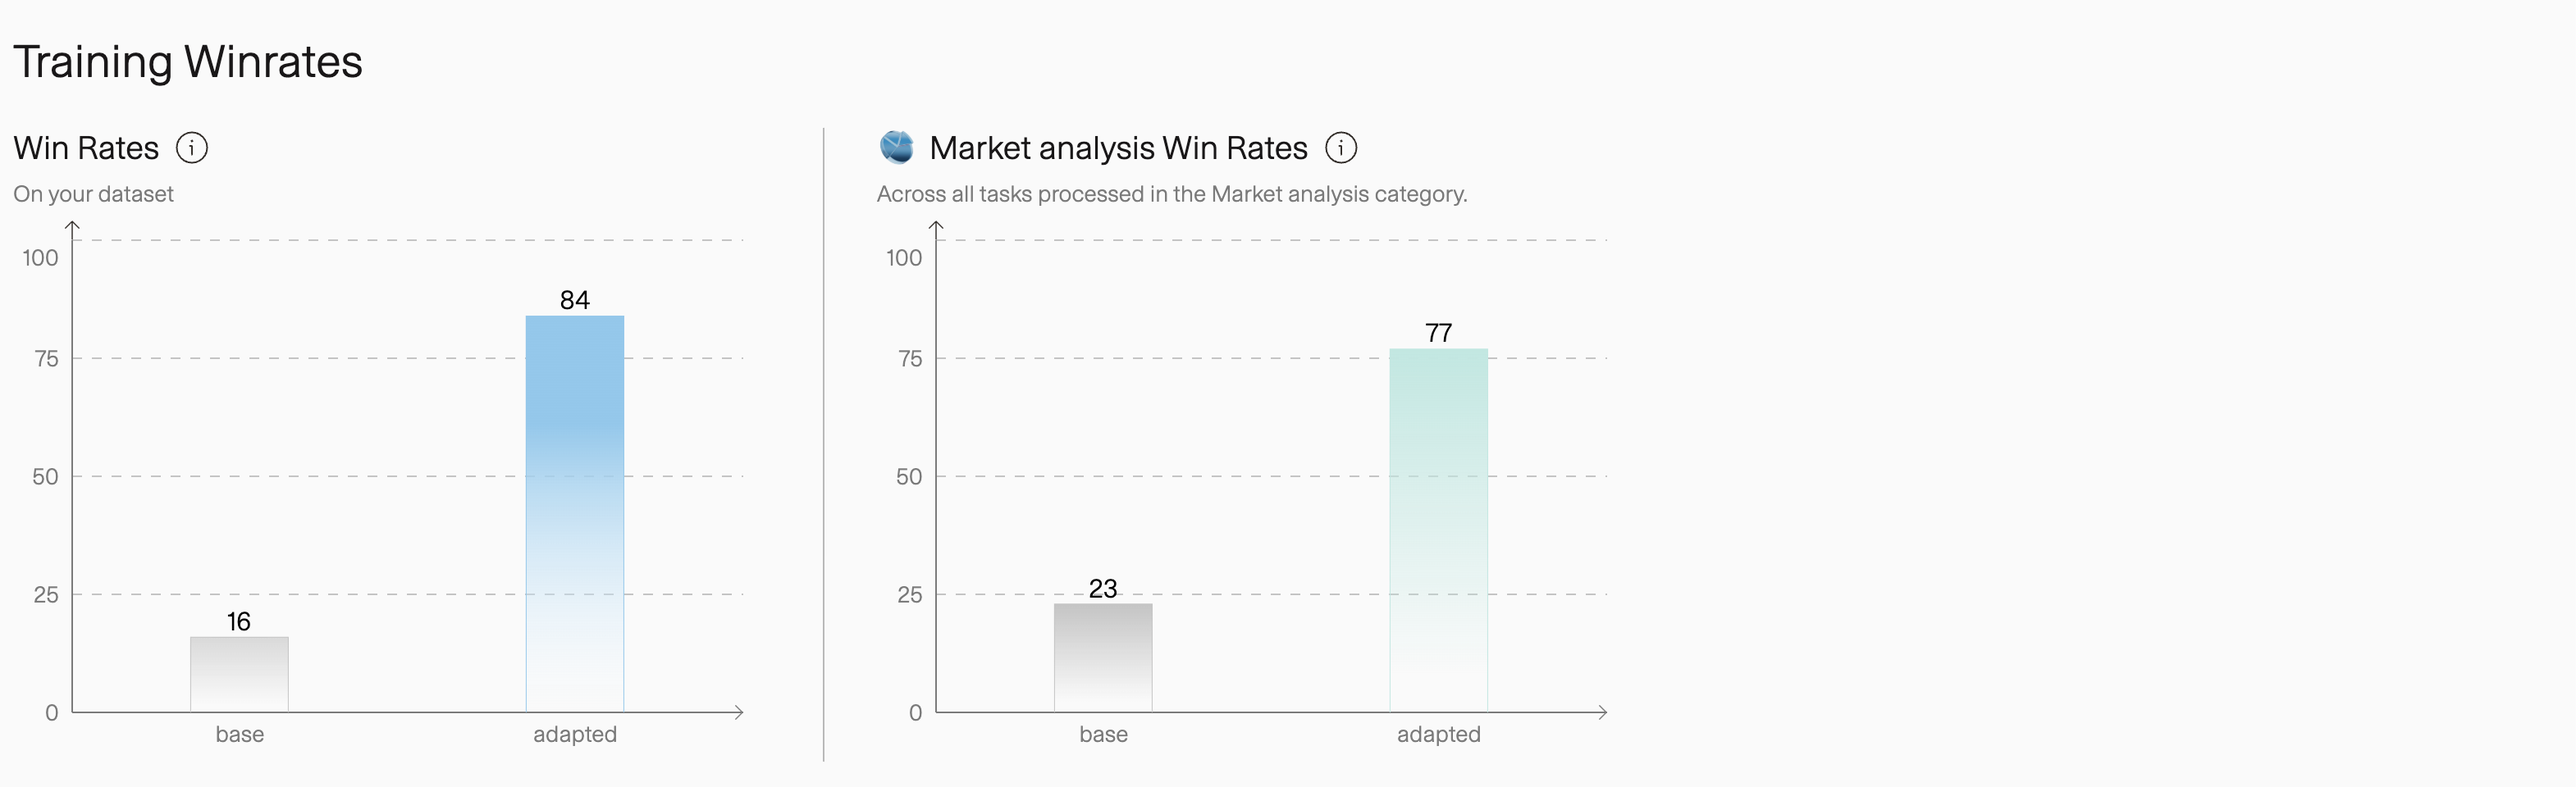
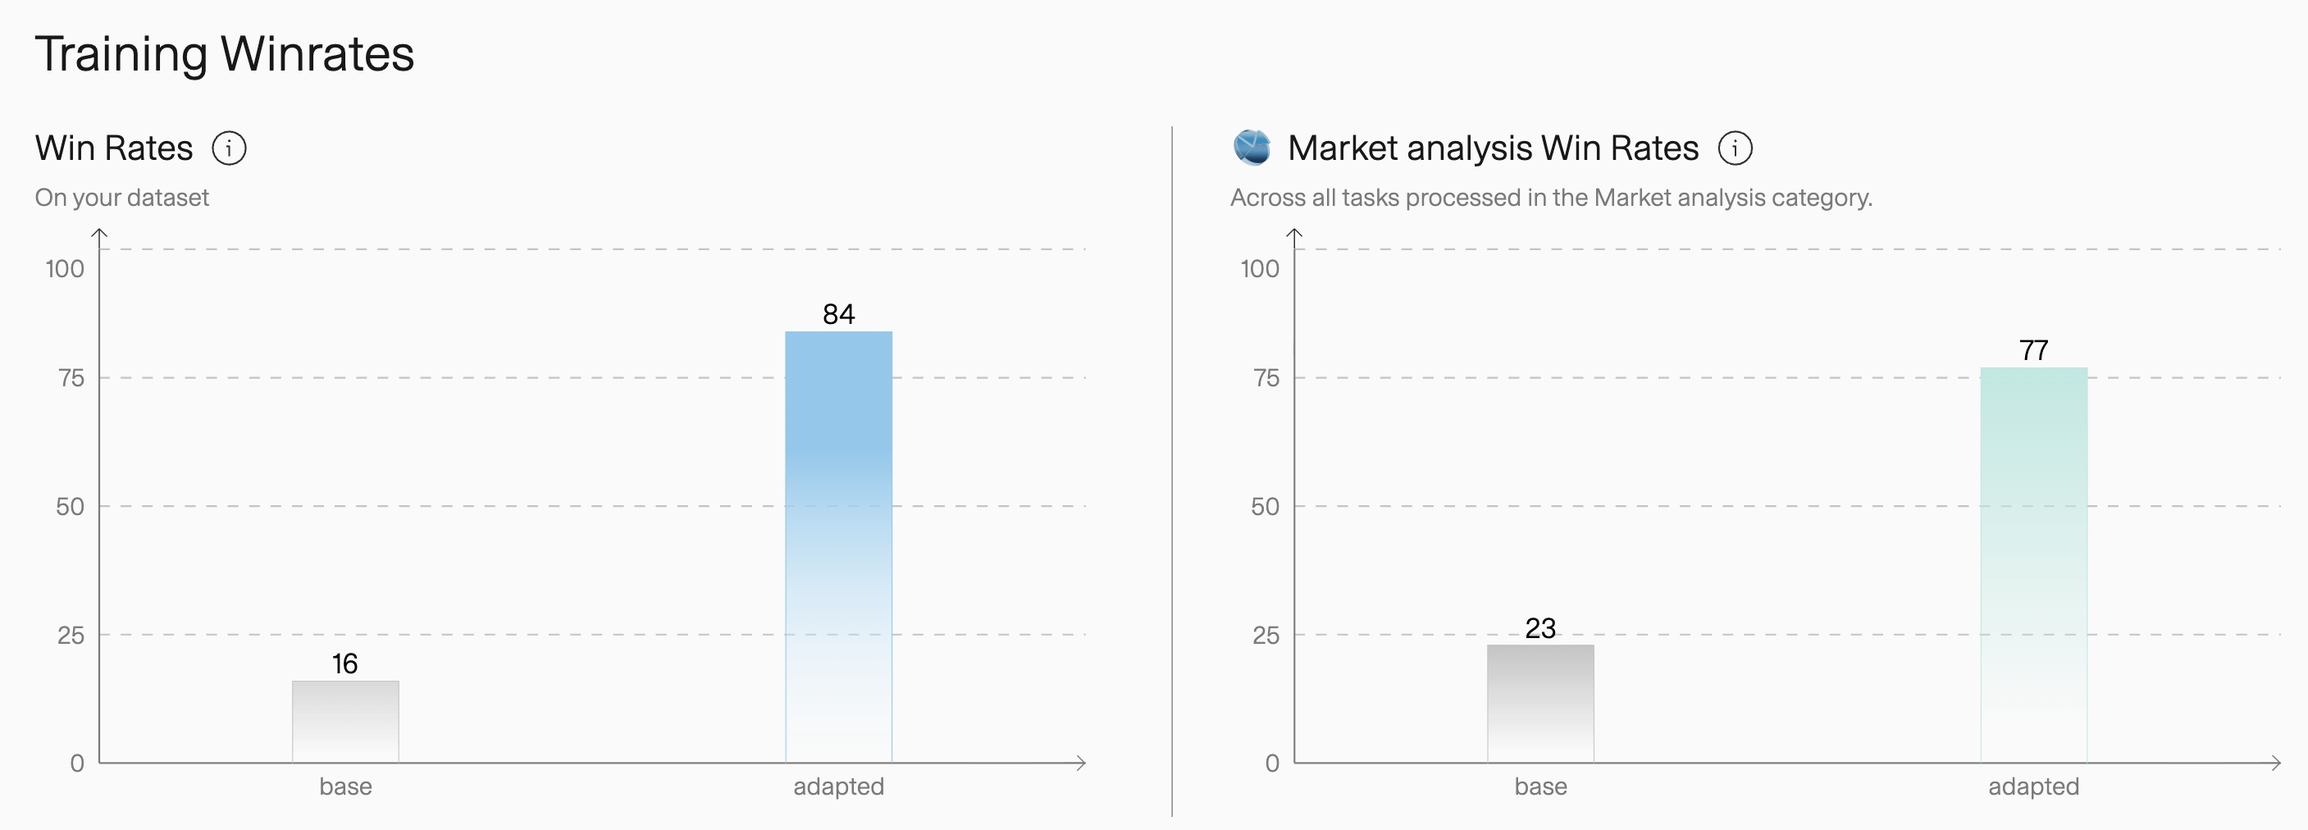
Complete final scale story and figures

diff --git a/index.html b/index.html
@@ -275,6 +275,23 @@
       .tax-val { color: var(--medium-gray); font: 400 11.5px/1 var(--mono); text-align: right; font-variant-numeric: tabular-nums; }
       .tax-row.lead .tax-val { color: var(--accent); }
 
+      .scale-chart {
+        display: grid;
+        grid-template-columns: repeat(3, minmax(0, 1fr));
+        align-items: end;
+        gap: 1.2rem;
+        min-height: 225px;
+        padding: 1rem 0 0.65rem;
+        border-bottom: 1px solid var(--border);
+      }
+      .scale-stage { display: grid; grid-template-rows: 24px 164px auto; gap: 0.4rem; min-width: 0; text-align: center; }
+      .scale-value { align-self: end; color: var(--black); font: 500 0.72rem/1.2 var(--mono); }
+      .scale-bar-space { display: flex; align-items: end; justify-content: center; }
+      .scale-bar { display: block; width: min(76px, 70%); min-height: 4px; background: var(--highlight-gray); }
+      .scale-stage:nth-child(2) .scale-bar { background: var(--accent-light); }
+      .scale-stage:last-child .scale-bar { background: var(--accent); }
+      .scale-label { color: var(--medium-gray); font-size: 0.66rem; line-height: 1.35; }
+
       .cmp { width: 100%; min-width: 620px; border-collapse: collapse; font-size: 12.5px; }
       .cmp th, .cmp td { padding: 0.62rem 0.55rem; text-align: left; border-bottom: 1px solid var(--border); vertical-align: top; }
       .cmp thead th { color: var(--medium-gray); font-weight: 400; font-size: 10.5px; text-transform: uppercase; letter-spacing: 0.09em; }
@@ -364,6 +381,9 @@
         .funnel-row { grid-template-columns: 112px minmax(0, 1fr) 52px; }
         .tax-row { grid-template-columns: 128px minmax(0, 1fr) 44px; }
         .funnel-label, .tax-label { font-size: 11px; }
+        .scale-chart { gap: 0.65rem; min-height: 205px; }
+        .scale-stage { grid-template-rows: 24px 145px auto; }
+        .scale-bar { width: min(58px, 72%); }
         article h2 { font-size: 24px; }
         .resource-meta > div, .artifact-item { grid-template-columns: 68px minmax(0, 1fr); }
         .adaption-links li { grid-template-columns: 92px minmax(0, 1fr); }
@@ -414,7 +434,7 @@
             </ul>
           </li>
           <li class="toc-group">
-            <a class="toc-section" href="#scale">Attempt #2: Scaling</a>
+            <a class="toc-section" href="#scale">Attempt #2: Scaling 50x</a>
             <ul>
               <li><a href="#scale-data">Data</a></li>
               <li><a href="#scale-model">Model</a></li>
@@ -439,7 +459,7 @@
               </ul>
             </li>
             <li class="toc-group">
-              <a class="toc-section" href="#scale">Attempt #2: Scaling</a>
+              <a class="toc-section" href="#scale">Attempt #2: Scaling 50x</a>
               <ul>
                 <li><a href="#scale-data">Data</a></li>
                 <li><a href="#scale-model">Model</a></li>
@@ -459,6 +479,12 @@
 
           <p>
             We developed this work as part of Adaption Labs' <a href="https://adaptionlabs.ai/blog/autoscientist">AutoScientist Challenge</a>.
+            Both authors work in finance: Keith Vo works directly as an equity researcher, while Huy
+            X. Dang builds AI systems in finance. That combination shaped both the task design and
+            the standard we used for analyst-style outputs.
+          </p>
+
+          <p>
             We then tested the pipeline twice. Attempt 1 asked whether a small, carefully extracted
             seed could produce useful model behavior. Attempt 2 asked whether the same process could
             scale to a broader finance corpus. The two attempts produced different kinds of evidence,
@@ -500,6 +526,13 @@
             evidence, and then reconstructs only the question that the evidence can support.
           </p>
 
+          <figure class="shot">
+            <a class="image-link" href="assets/extraction-doc-to-prompt.png" aria-label="Open the full-resolution document-to-prompt extraction illustration">
+              <img src="assets/extraction-doc-to-prompt.png" alt="A stack of institutional finance reports is separated into evidence fragments and transformed into a prompt and analyst response" width="1672" height="941" loading="lazy" decoding="async" />
+            </a>
+            <figcaption><strong>Figure 1:</strong> The extraction path turns report pages into evidence fragments, then reconstructs a supported prompt and analyst-style answer.</figcaption>
+          </figure>
+
           <figure>
             <div class="figure-panel">
               <div class="flow-step"><span class="flow-number">01</span><span class="flow-title">Find a judgment</span><span class="flow-copy">Detect phrases such as “we expect” and “in our view,” then capture a 90- to 320-word span inside one paragraph.</span></div>
@@ -507,7 +540,7 @@
               <div class="flow-step"><span class="flow-number">03</span><span class="flow-title">Rank evidence</span><span class="flow-copy">Score the surviving paragraphs on shared figures, similarity and proximity. Any paragraph above 72% similarity is leakage. Keep six.</span></div>
               <div class="flow-step"><span class="flow-number">04</span><span class="flow-title">Derive the ask</span><span class="flow-copy">Identify the analytical moves in the conclusion, such as direction, valuation, or counterevidence, and ask only for those moves.</span></div>
             </div>
-            <figcaption><strong>Figure 1:</strong> Answer-first extraction. The conclusion becomes the target, while evidence from the same report becomes the prompt.</figcaption>
+            <figcaption><strong>Figure 2:</strong> Answer-first extraction. The conclusion becomes the target, while evidence from the same report becomes the prompt.</figcaption>
           </figure>
 
           <p>
@@ -525,7 +558,7 @@
               <div class="funnel-row"><span class="funnel-label">Post-cap candidates</span><span class="funnel-bar" style="width:24.9%"></span><span class="funnel-val">816</span></div>
               <div class="funnel-row keep"><span class="funnel-label">Final baseline</span><span class="funnel-bar" style="width:22.5%"></span><span class="funnel-val">739</span></div>
             </div>
-            <figcaption><strong>Figure 2:</strong> Capping, identity checks, and deduplication reduced 3,136 eligible rows to 739: 589 train, 77 validation, and 73 held out.</figcaption>
+            <figcaption><strong>Figure 3:</strong> Capping, identity checks, and deduplication reduced 3,136 eligible rows to 739: 589 train, 77 validation, and 73 held out.</figcaption>
           </figure>
 
           <h3 id="adaptive-data">Adaptive Data</h3>
@@ -541,7 +574,7 @@
             <a class="image-link" href="assets/a1-quality.png" aria-label="Open the full-resolution Attempt 1 quality figure">
               <img src="assets/a1-quality.png" alt="Adaption quality panel: original text 5.0, adaptive text 9.4, +88.0% relative improvement" width="1435" height="864" loading="lazy" decoding="async" />
             </a>
-            <figcaption><strong>Figure 3:</strong> Adaption measured the original text at 5.0 and the adapted text at 9.4.</figcaption>
+            <figcaption><strong>Figure 4:</strong> Adaption measured the original text at 5.0 and the adapted text at 9.4.</figcaption>
           </figure>
 
           <p>
@@ -573,7 +606,7 @@
                 </div>
               </div>
             </div>
-            <figcaption><strong>Figure 4:</strong> The adapted completion turns one dense paragraph into an explicit evidence-to-conclusion response.</figcaption>
+            <figcaption><strong>Figure 5:</strong> The adapted completion turns one dense paragraph into an explicit evidence-to-conclusion response.</figcaption>
           </figure>
 
           <h3 id="autoscientist">AutoScientist</h3>
@@ -586,9 +619,9 @@
 
           <figure class="shot">
             <a class="image-link" href="assets/a1-winrates.png" aria-label="Open the full-resolution Attempt 1 evaluation figure">
-              <img src="assets/a1-winrates.png" alt="Training win rates: base 16 vs adapted 84 on our dataset; base 23 vs adapted 77 across the Market analysis category" width="3140" height="960" loading="lazy" decoding="async" />
+              <img src="assets/a1-winrates.png" alt="Training win rates: base 16 vs adapted 84 on our dataset; base 23 vs adapted 77 across the Market analysis category" width="2814" height="1012" loading="lazy" decoding="async" />
             </a>
-            <figcaption><strong>Figure 5:</strong> The adapted model won 84 to 16 on our dataset and 77 to 23 across Adaption's Market Analysis category.</figcaption>
+            <figcaption><strong>Figure 6:</strong> The adapted model won 84 to 16 on our dataset and 77 to 23 across Adaption's Market Analysis category.</figcaption>
           </figure>
 
           <p>
@@ -615,7 +648,7 @@
           </p>
 
           <div class="act">
-            <h2 id="scale">Attempt #2: Scaling</h2>
+            <h2 id="scale">Attempt #2: Scaling 50x</h2>
           </div>
 
           <h3 id="scale-data">Data</h3>
@@ -625,6 +658,27 @@
             roughly 1,500 to about 7,000 reports, adding macro outlooks, sector studies, fund reviews,
             and fixed-income commentary from institutional sources.
           </p>
+
+          <figure>
+            <div class="scale-chart" role="img" aria-label="Training-row growth from 589 seed rows to approximately 19,000 synthetic rows and 45,758 final combined rows">
+              <div class="scale-stage">
+                <span class="scale-value">589</span>
+                <span class="scale-bar-space"><i class="scale-bar" style="height:1.3%"></i></span>
+                <span class="scale-label">Seed baseline</span>
+              </div>
+              <div class="scale-stage">
+                <span class="scale-value">~19k</span>
+                <span class="scale-bar-space"><i class="scale-bar" style="height:41.5%"></i></span>
+                <span class="scale-label">Synthetic working set</span>
+              </div>
+              <div class="scale-stage">
+                <span class="scale-value">45,758</span>
+                <span class="scale-bar-space"><i class="scale-bar" style="height:100%"></i></span>
+                <span class="scale-label">Final combined</span>
+              </div>
+            </div>
+            <figcaption><strong>Figure 7:</strong> The scale story in rows: 589 seed examples, roughly 19,000 in the intermediate synthetic working set, and 45,758 in Final.</figcaption>
+          </figure>
 
           <p>
             The broader corpus required a broader task model. Each row records a task family, an asset
@@ -641,7 +695,7 @@
               <div class="tax-row"><span class="tax-label">Comparative analysis</span><span class="tax-track"><i class="tax-fill" style="width:4%"></i></span><span class="tax-val">1.5%</span></div>
               <div class="tax-row"><span class="tax-label">Fund &amp; benchmark</span><span class="tax-track"><i class="tax-fill" style="width:1%"></i></span><span class="tax-val">0.4%</span></div>
             </div>
-            <figcaption><strong>Figure 6:</strong> Insufficient-evidence tasks account for 36.2% of the combined dataset.</figcaption>
+            <figcaption><strong>Figure 8:</strong> Insufficient-evidence tasks account for 36.2% of the combined dataset.</figcaption>
           </figure>
 
           <p>
@@ -671,47 +725,51 @@
 
           <figure class="shot">
             <a class="image-link" href="assets/a2-adaptive-data.png" aria-label="Open the full-resolution Attempt 2 combined-dataset figure">
-              <img src="assets/a2-adaptive-data.png" alt="Adaption panel for the combined Final dataset: 45,758 rows, 100% market-analysis, with an Original datasets link showing its three sources" width="3118" height="1006" loading="lazy" decoding="async" />
+              <img src="assets/a2-adaptive-data.png" alt="Adaption quality grade panel showing the Attempt 2 dataset improving from grade B before adaptation to grade A after adaptation" width="1546" height="626" loading="lazy" decoding="async" />
             </a>
-            <figcaption><strong>Figure 7:</strong> Combine produced one 45,758-row training dataset with three traceable source generations.</figcaption>
+            <figcaption><strong>Figure 9:</strong> The broader Attempt 2 dataset improved from grade B to grade A after Adaptive Data.</figcaption>
           </figure>
 
           <p>
             The larger corpus entered Adaptive Data at a higher baseline quality. Each source
             generation started at 7.0, while the combined dataset started at 8.0 and finished at 9.4.
             The three generations share the same 1,753 leakage groups, so they represent roughly
-            15,250 unique generated items rather than three independent corpora. The row count grew
-            78 times; the unique underlying material grew about 26 times.
+            15,250 unique generated items rather than three independent corpora. The headline scale
+            came from combining broader source coverage with multiple adaptation recipes.
           </p>
 
           <h3 id="scale-model">Model</h3>
 
           <p>
-            AutoScientist trained <code>Llama 4 Scout 17B</code> on the 45,758-row combined dataset.
-            We retained the run and its outcome, but not the complete training configuration. That
-            missing record prevents a controlled training-recipe comparison with Attempt 1.
+            AutoScientist trained a LoRA adapter for <code>Llama 4 Scout 17B</code> on the 45,758-row
+            combined dataset. The released adapter records rank 32, alpha 64, dropout 0.05, and the
+            <code>q_proj</code>, <code>k_proj</code>, <code>v_proj</code>, and <code>o_proj</code>
+            targets. Trainer state records two epochs, 168 steps, and a peak learning rate of
+            <code>2e-5</code>.
           </p>
 
           <h3 id="result">Results</h3>
 
           <p>
-            The adapted model won 80 to 20 in the dataset-specific preference evaluation. Unlike
-            Attempt 1, Attempt 2 produced no broader Market Analysis category result. It therefore
-            demonstrates fit to its own distribution, not external transfer.
+            The adapted model won 80 to 20 in the dataset-specific preference evaluation. This makes
+            Attempt 2 the stronger scaling result: the workflow absorbed broader source coverage,
+            reached 45,758 rows, improved data quality from B to A, and retained a large preference
+            margin on its own distribution.
           </p>
 
-          <figure class="shot narrow">
+          <figure class="shot">
             <a class="image-link" href="assets/a2-winrate.png" aria-label="Open the full-resolution Attempt 2 evaluation figure">
-              <img src="assets/a2-winrate.png" alt="AutoScientist result for the combined dataset: base 20, adapted 80" width="1010" height="1426" loading="lazy" decoding="async" />
+              <img src="assets/a2-winrate.png" alt="AutoScientist result for the combined dataset: base 20, adapted 80" width="1036" height="760" loading="lazy" decoding="async" />
             </a>
-            <figcaption><strong>Figure 8:</strong> Attempt 2 produced an 80 to 20 dataset-specific preference result. No category-level result was produced.</figcaption>
+            <figcaption><strong>Figure 10:</strong> Attempt 2 produced an 80 to 20 dataset-specific preference result. No category-level result was produced.</figcaption>
           </figure>
 
           <p>
-            Attempt 1 remains the stronger reported model result. A clean next experiment would freeze
-            a genuinely unseen evaluation set, train each generation separately, and then train on
-            their combination. That comparison would show whether Combine adds useful diversity or
-            repeats the same signal. Attempt 2 proves workflow breadth, not better generalization.
+            Attempt 1 still provides the stronger evidence of external transfer because it includes
+            a 77 to 23 Market Analysis category result. Attempt 2 has no equivalent category result,
+            so we do not claim better generalization. The two attempts answer different questions:
+            Attempt 1 proves transfer beyond its own rows, while Attempt 2 proves that the full data
+            and training workflow can scale across a materially broader finance corpus.
           </p>
 
           <div class="act">
@@ -786,7 +844,15 @@
                 </li>
                 <li class="artifact-item">
                   <span class="artifact-label">Final model</span>
-                  <span class="resource-pending">Not available yet</span>
+                  <span class="artifact-platforms">
+                    <a class="platform-link" href="https://huggingface.co/huyxdang/adaption-market-analysis-final-model" target="_blank" rel="noreferrer" aria-label="Open the final Attempt 2 model on Hugging Face">
+                      <img class="brand-mark" src="https://huggingface.co/front/assets/huggingface_logo-noborder.svg" alt="" width="14" height="14" loading="lazy" decoding="async" />
+                      Hugging Face
+                    </a>
+                    <a class="platform-link" href="https://www.kaggle.com/models/huydang03/adaption-market-analysis-final-model/PyTorch/lora" target="_blank" rel="noreferrer" aria-label="Open the final Attempt 2 model on Kaggle">
+                      <img class="brand-mark kaggle-mark" src="assets/kaggle.svg" alt="" width="30" height="12" loading="lazy" decoding="async" />
+                    </a>
+                  </span>
                 </li>
               </ul>
             </section>
